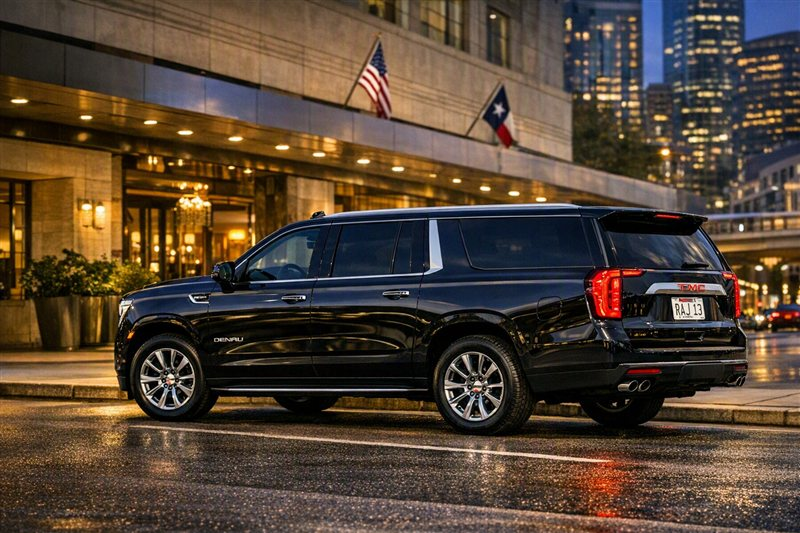
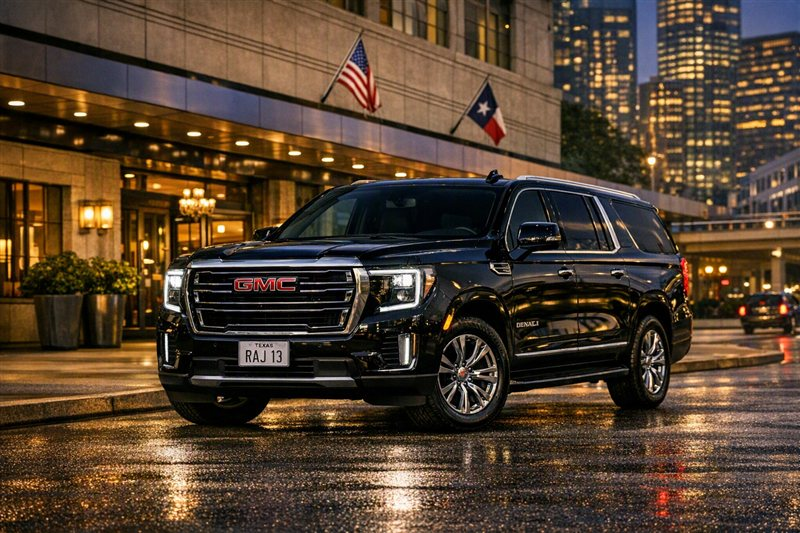
feat: update GMC Denali fleet image + dark service cards
- Replace fleet-denali-web.jpg with new resized image (800x533, 129KB)
- Service cards: dark warm-black background with cream/gold text

diff --git a/styles.css b/styles.css
@@ -509,26 +509,26 @@ ul { list-style: none; }
   margin-bottom: 20px;
 }
 
-/* ---- Service Cards — cream/ivory scheme matching stats bar ---- */
+/* ---- Service Cards — dark card on cream section ---- */
 .service-card {
-  background: linear-gradient(145deg, #fff8e7 0%, #f9f6ee 100%);
-  border: 1px solid rgba(201,168,76,0.28);
-  box-shadow: 0 2px 16px rgba(0,0,0,0.12);
+  background: linear-gradient(145deg, #1a1500 0%, #0f0c00 100%);
+  border: 1px solid rgba(201,168,76,0.22);
+  box-shadow: 0 4px 20px rgba(0,0,0,0.18);
 }
 .service-card:hover {
-  background: linear-gradient(145deg, #fffcf2 0%, #fdf8ed 100%);
+  background: linear-gradient(145deg, #2a2000 0%, #1a1500 100%);
   border-color: var(--gold);
-  box-shadow: 0 12px 40px rgba(201,168,76,0.2), 0 4px 16px rgba(0,0,0,0.1);
+  box-shadow: 0 12px 40px rgba(201,168,76,0.18), 0 4px 16px rgba(0,0,0,0.25);
 }
 .service-card .card-icon {
-  background: rgba(156,123,47,0.12);
-  border-color: rgba(156,123,47,0.35);
+  background: rgba(201,168,76,0.1);
+  border-color: rgba(201,168,76,0.3);
 }
 .service-card .service-title {
-  color: #1a1200;
+  color: var(--cream);
 }
 .service-card .service-desc {
-  color: #5a4a2a;
+  color: var(--gray-light);
 }
 
 /* ---- Fleet Card ---- */
